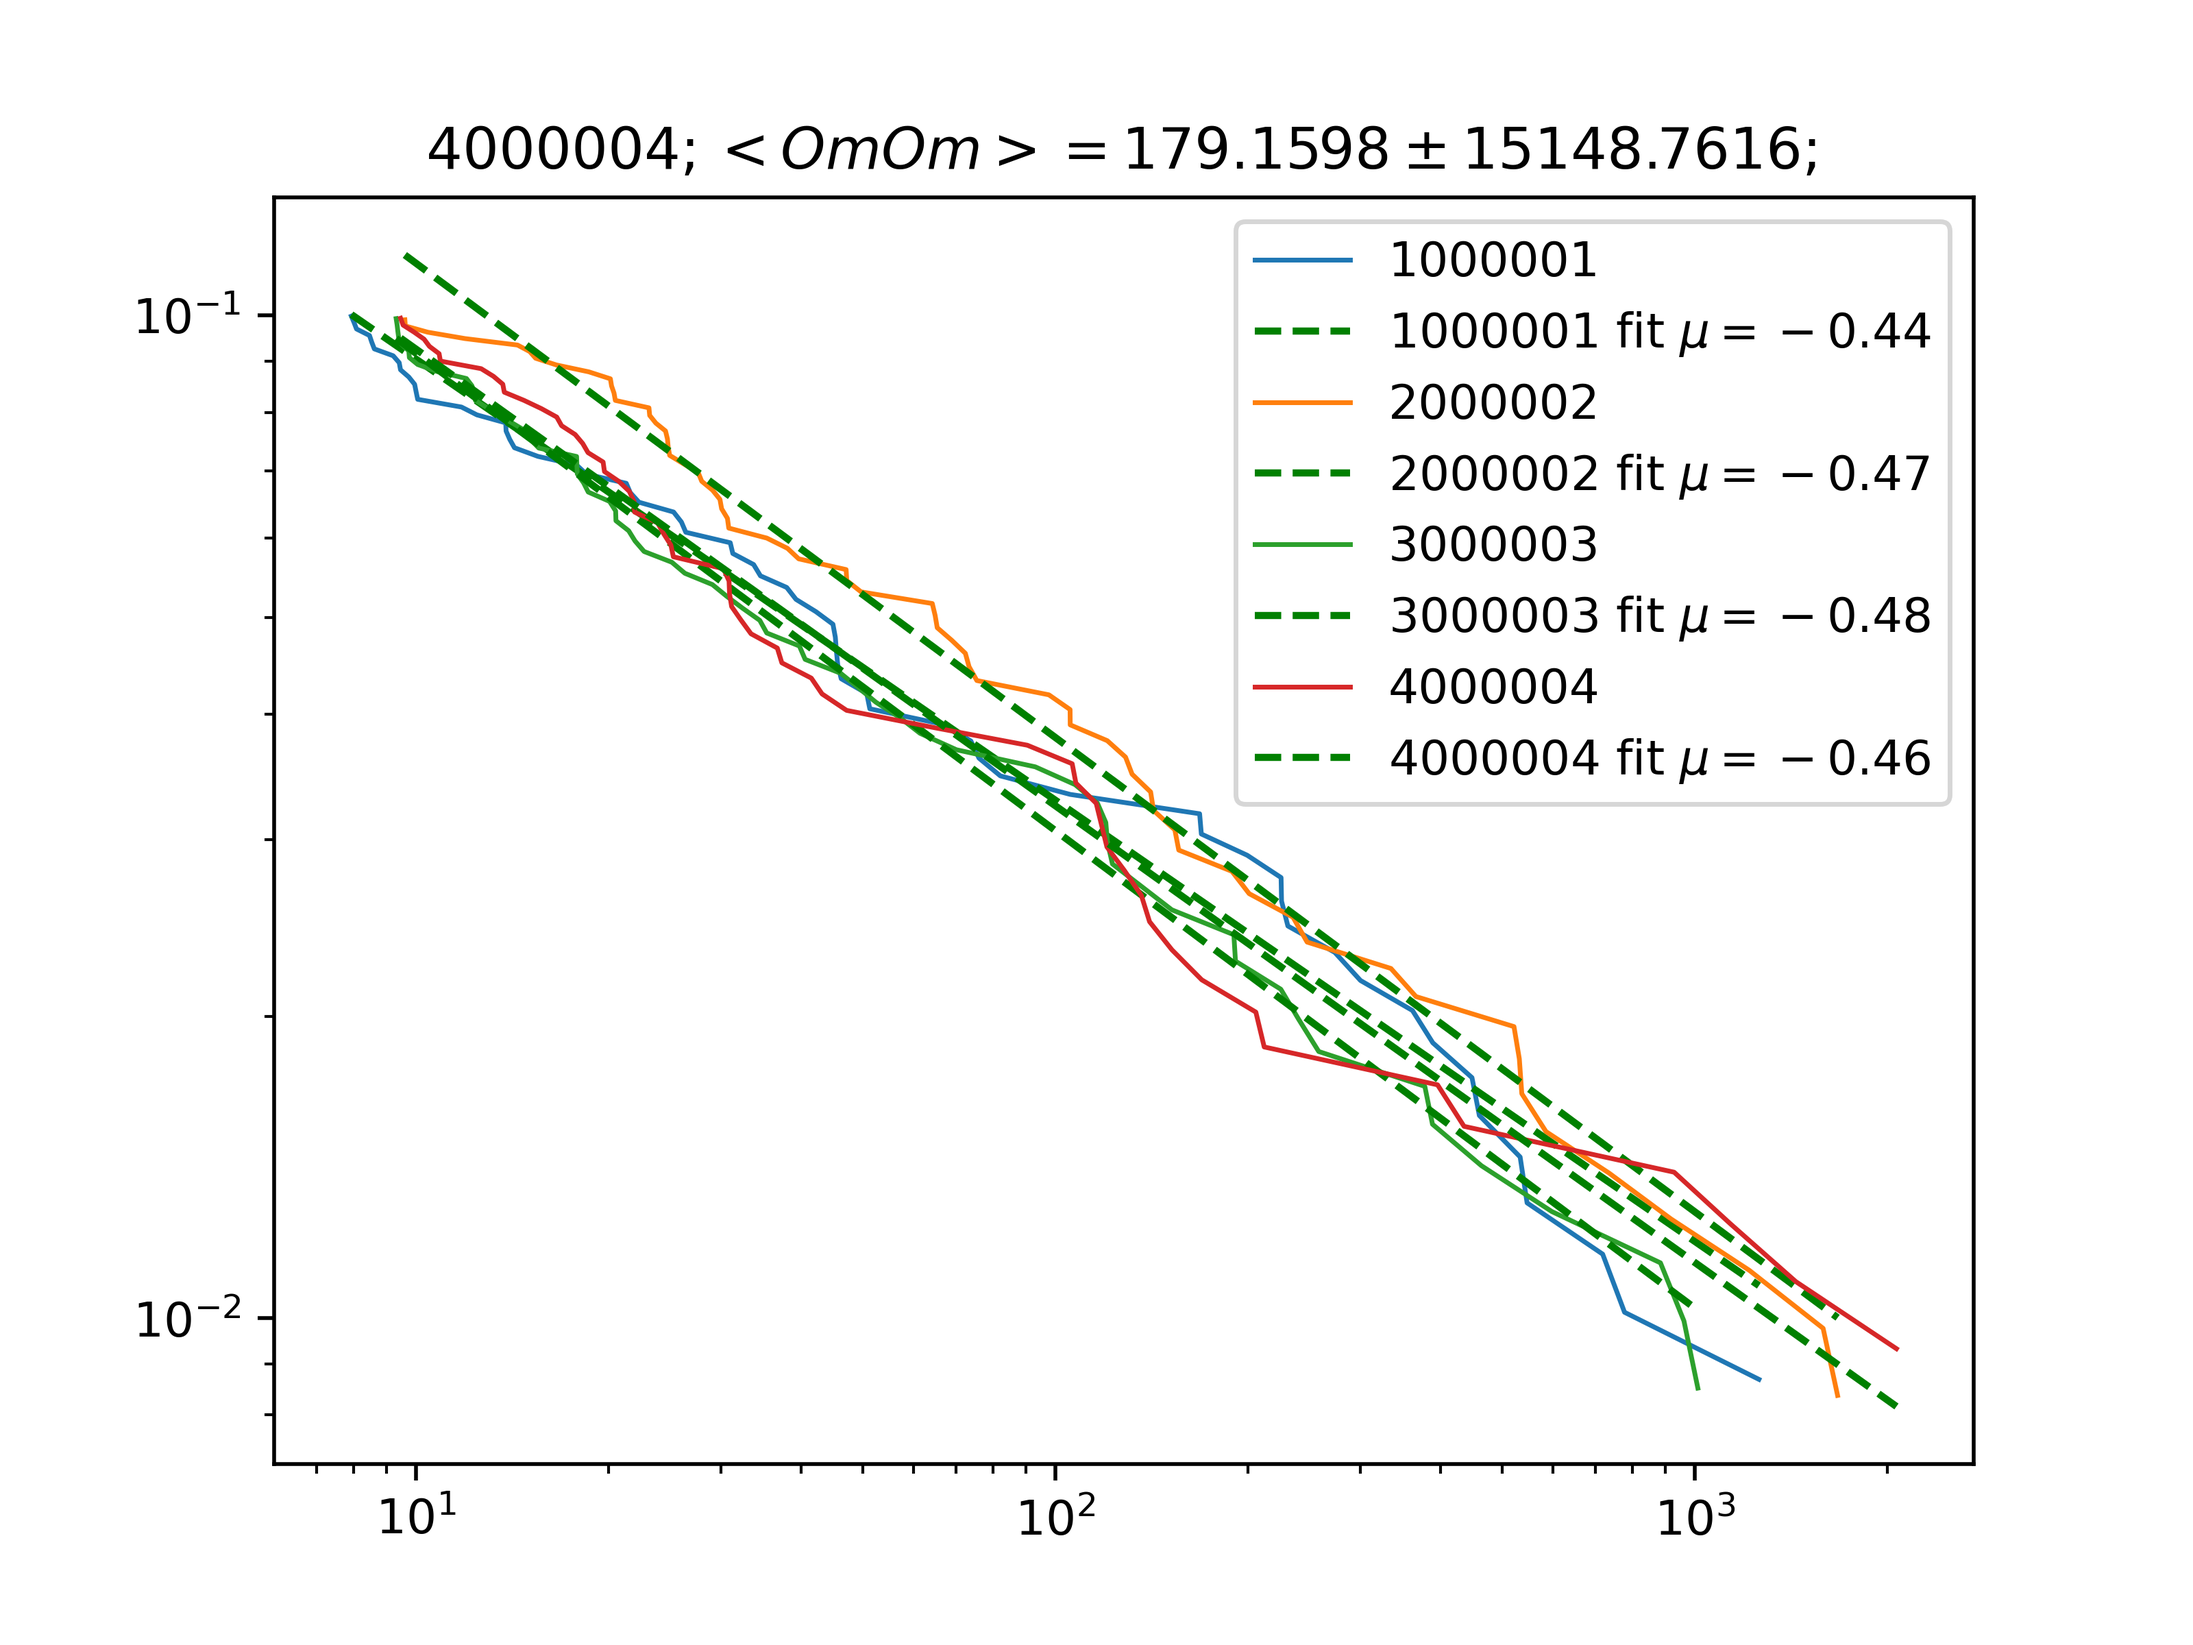
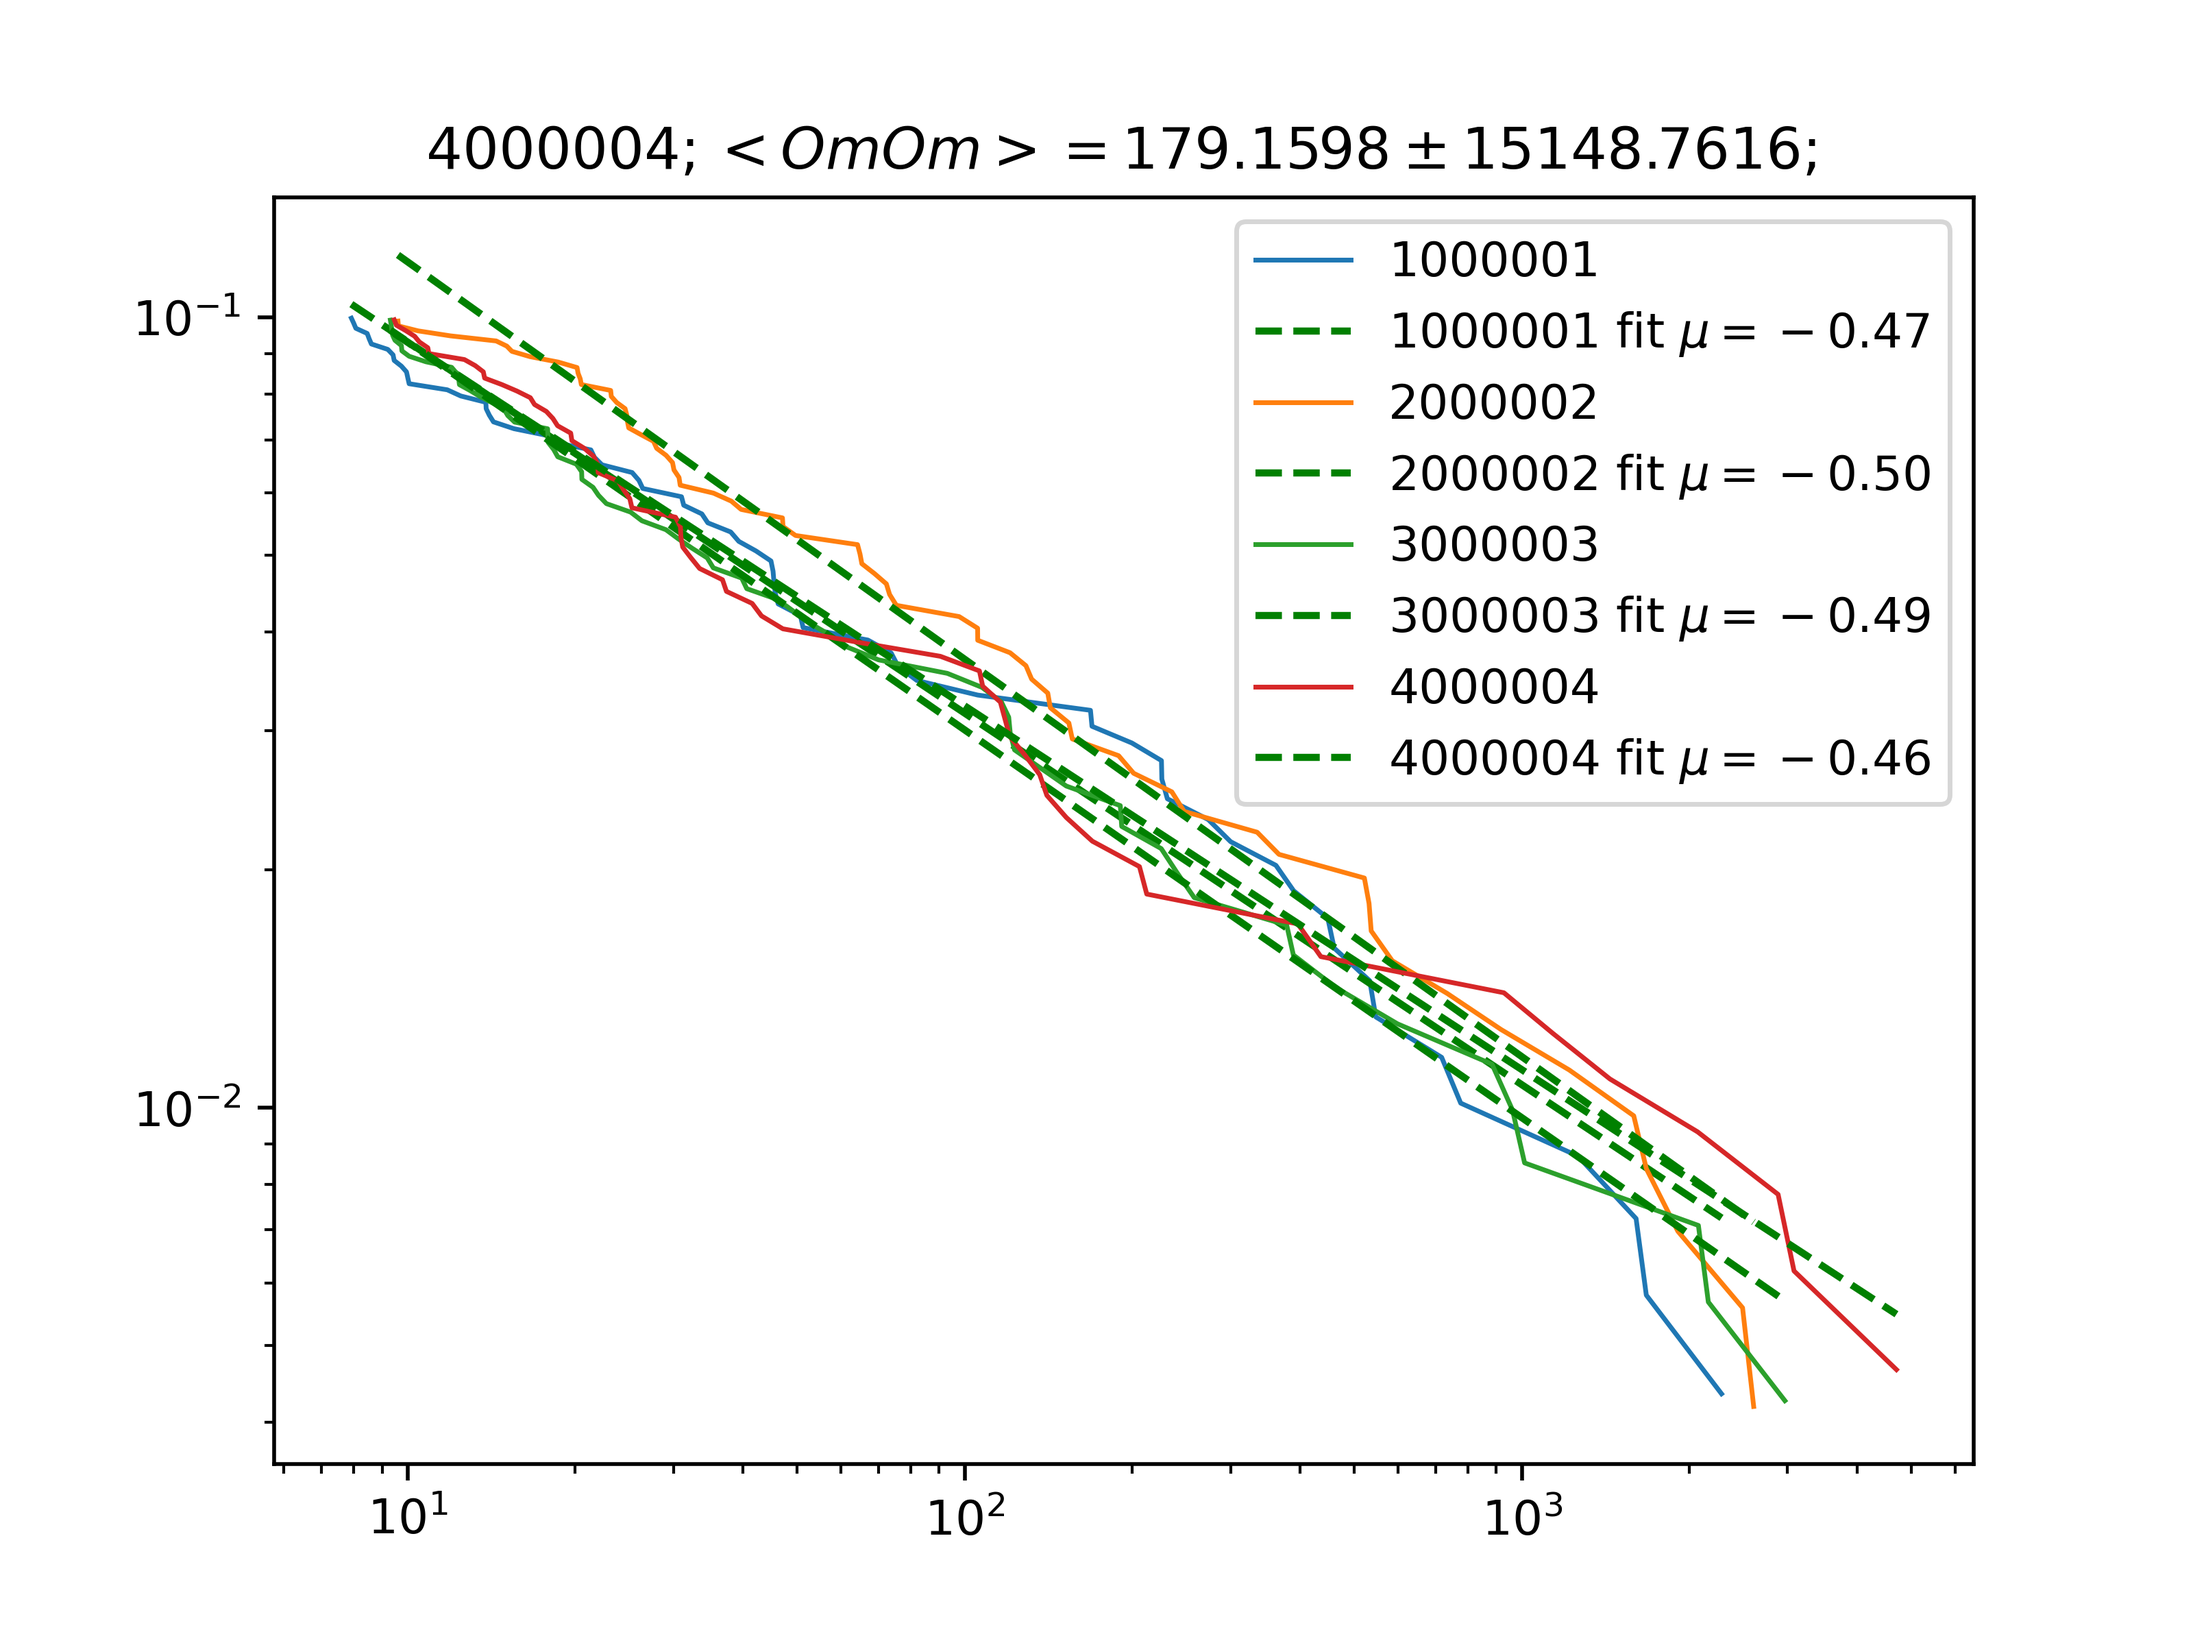
added one more plot for M = 1M to  4M pts

diff --git a/plot.py b/plot.py
@@ -437,7 +437,7 @@ def MultiXYPlot(data, plotpath, logx=True, logy=True, title='XY',scatter=False, 
                 t = np.log(y[-N:])
                 p = np.polyfit(l,t,  1)
                 lab = '$%s: \mu=%.2f$' % (name,p[0])
-                pylab.loglog(x[-N:],y[-N:], color="red", linewidth=1., linestyle="-",label=lab)
+                pylab.loglog(x[-N:],y[-N:], color="blue", linewidth=1., linestyle="-",label=lab)
                 pylab.loglog(x,y, linewidth=1., linestyle="-",label=name)
             else:
                 if logy:
@@ -1010,7 +1010,7 @@ def MultiRankHistPos(arrays,plotpath,var_name='\eta',logx=False, logy=True):
             mean,err = data.mean(), data.std()
             gen_lab = '$%s;<%s>=%.4f\pm%.4f$; '%(name,var_name,mean,err)
             if logx:
-                ok = (tail < 0.1) &  (tail > 5./N)
+                ok = (tail < 0.1) &  (tail > 2./N)
                 l = np.log(x[ok])
                 t = np.log(tail[ok])
                 p = np.polyfit(l,t,  1)

diff --git a/VorticityCorrelation.py b/VorticityCorrelation.py
@@ -200,7 +200,7 @@ class FDPlotter():
             data.append([str(m),dss[pos],oto[pos]])
         try:
             plotpath = os.path.join(CorrFuncDir(M),"multi OtOvsDss.png")
-            MultiXYPlot(data, plotpath, logx=True, logy=True, title='OtoOVsDss',scatter=False, xlabel ='dss', ylabel='oto',frac_last=0.5)
+            MultiXYPlot(data, plotpath, logx=True, logy=True, title='OtoOVsDss',scatter=False, xlabel ='dss', ylabel='oto',frac_last=0.95)
         except Exception as ex:
             print(ex)
         print("made OtOvsDss " + str(M))
